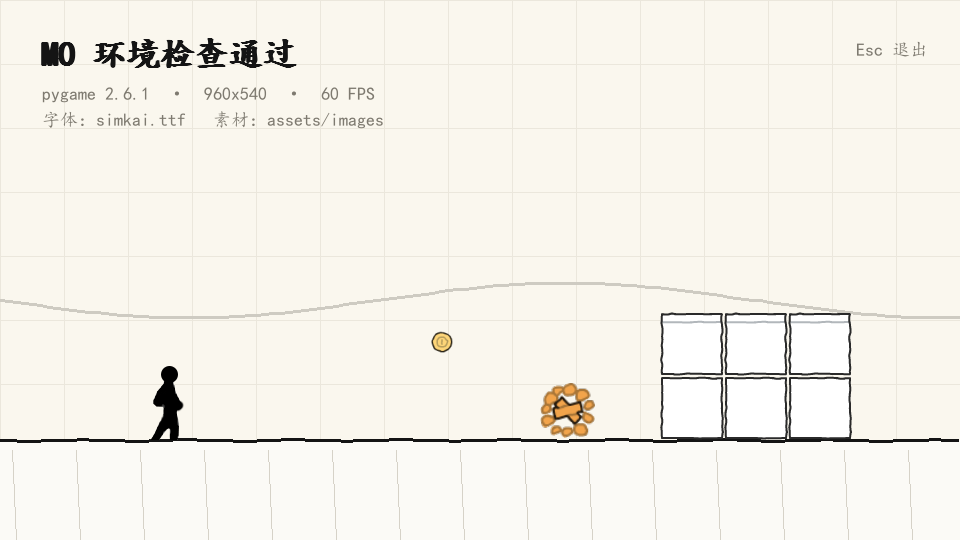
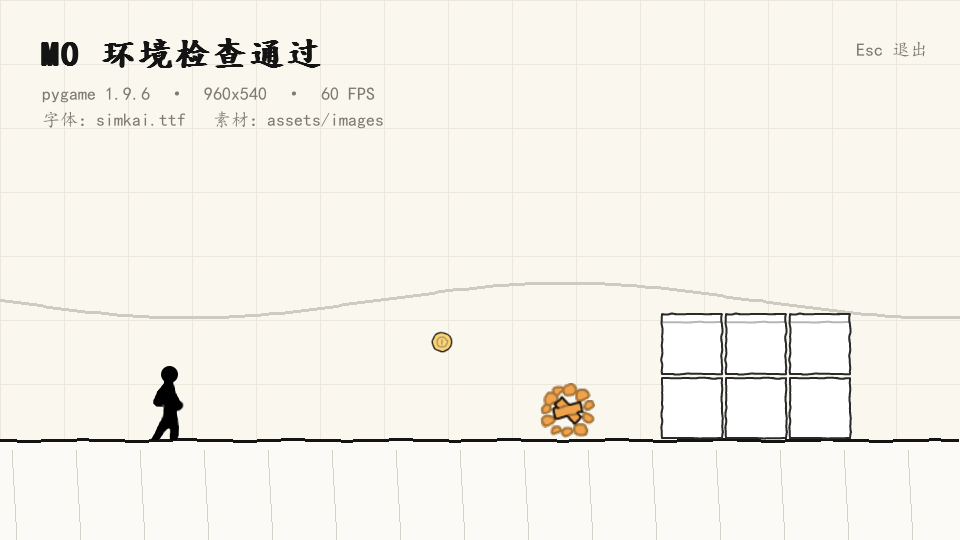
M0: verify on TurtleEditor runtime (Python 3.6.5 / pygame 1.9.6)
- add compat.py: rounded_rect/panel/clip_line/dist/tint/make_display
- force 32-bit display depth (pygame 1.9.6 dummy driver returns 8-bit palette)
- replace gfxdraw.aapolygon stroke (drops bottom edge) with draw.lines closed
- document real target environment and API limits in README
- requirements.txt pinned to pygame>=1.9.6 for the bundled interpreter

Changed region(s): [[0.0625, 0.0593, 0.3438, 0.1778]]

diff --git a/compat.py b/compat.py
@@ -1,0 +1,145 @@
+# -*- coding: utf-8 -*-
+"""pygame 兼容层。
+
+海龟编辑器（Pyblock / TurtleEditor）内置的是 **Python 3.6.5 + pygame 1.9.6**，
+比常见的 pygame 2.x 少若干 API。所有"新 API"统一在这里兜底，业务代码只调用
+本模块，避免在游戏逻辑里到处写版本判断。
+
+实测缺失（2026-11-23，编辑器 Python 3.6.5 / pygame 1.9.6）：
+  - ``pygame.draw.rect(..., border_radius=)``   -> 本模块 rounded_rect()
+  - ``pygame.Rect.clipline()``                  -> 本模块 clip_line()
+  - ``pygame.SCALED``                           -> 不使用，固定窗口尺寸
+  - ``math.dist()``（Python 3.8+）              -> 用 hypot
+  - 8 位调色板显示面（dummy 驱动默认）          -> set_mode 必须显式传 depth=32
+
+可用（无需兜底）：smoothscale、Vector2.rotate、fill(BLEND_MULT)、set_alpha、
+gfxdraw、draw.aalines。
+"""
+
+import math
+
+import pygame
+
+
+def rounded_rect_points(rect, radius, steps=6):
+    """返回圆角矩形的多边形顶点（顺时针，可直接用于 draw.polygon）。"""
+    x, y, w, h = int(rect[0]), int(rect[1]), int(rect[2]), int(rect[3])
+    r = int(min(radius, w // 2, h // 2))
+    if r <= 0:
+        return [(x, y), (x + w, y), (x + w, y + h), (x, y + h)]
+
+    pts = []
+    # 四个圆角：左上 180°→270°，右上 270°→360°，右下 0°→90°，左下 90°→180°
+    corners = (
+        (x + r, y + r, 180.0),
+        (x + w - r, y + r, 270.0),
+        (x + w - r, y + h - r, 0.0),
+        (x + r, y + h - r, 90.0),
+    )
+    for cx, cy, start in corners:
+        for i in range(steps + 1):
+            a = math.radians(start + 90.0 * i / steps)
+            pts.append((int(round(cx + r * math.cos(a))), int(round(cy + r * math.sin(a)))))
+    return pts
+
+
+def rounded_rect(surface, color, rect, radius=8, width=0, smooth=False):
+    """圆角矩形，替代 pygame 2.x 的 ``border_radius`` 参数。
+
+    width=0 为填充，width>0 为描边。smooth=True 时用 2 倍超采样再缩小，
+    得到抗锯齿的圆角（静态面板用，逐帧绘制会掉帧）。
+
+    实现说明：**不能用 gfxdraw.aapolygon 描边**——pygame 1.9.6 的 SDL_gfx
+    在 28 个点的闭合路径上会漏画整条底边（实测，2026-11-23）。改用
+    ``pygame.draw.lines(..., closed=True, width=w)``，绘制完整无缺口。
+    """
+    x, y, w, h = int(rect[0]), int(rect[1]), int(rect[2]), int(rect[3])
+    pts = rounded_rect_points(rect, radius)
+
+    if width and width > 0:
+        pygame.draw.lines(surface, color, True, pts, int(width))
+        return
+
+    if smooth:
+        big = pygame.Surface((w * 2, h * 2), pygame.SRCALPHA)
+        big_pts = rounded_rect_points((0, 0, w * 2, h * 2), radius * 2)
+        pygame.draw.polygon(big, color, big_pts)
+        surface.blit(pygame.transform.smoothscale(big, (w, h)), (x, y))
+        return
+
+    pygame.draw.polygon(surface, color, pts)
+
+
+def panel(surface, rect, radius=14, fill=(255, 255, 255), border=(45, 45, 45), width=3, smooth=True):
+    """游戏内统一的面板样式：先填充再描边。"""
+    rounded_rect(surface, fill, rect, radius, 0, smooth=smooth)
+    if border is not None and width:
+        rounded_rect(surface, border, rect, radius, width)
+
+
+def clip_line(rect, p1, p2):
+    """替代 pygame 2.0 的 ``Rect.clipline``：返回线段在矩形内的部分。
+
+    无交集时返回 None，否则返回 ((x1, y1), (x2, y2))。
+    """
+    x0, y0, w, h = rect[0], rect[1], rect[2], rect[3]
+    x1, y1 = float(p1[0]), float(p1[1])
+    x2, y2 = float(p2[0]), float(p2[1])
+
+    dx, dy = x2 - x1, y2 - y1
+    t0, t1 = 0.0, 1.0
+    edges = ((-dx, x1 - x0), (dx, x0 + w - x1), (-dy, y1 - y0), (dy, y0 + h - y1))
+    for p, q in edges:
+        if p == 0:
+            if q < 0:
+                return None
+        else:
+            t = q / p
+            if p < 0:
+                if t > t1:
+                    return None
+                if t > t0:
+                    t0 = t
+            else:
+                if t < t0:
+                    return None
+                if t < t1:
+                    t1 = t
+    if t0 > t1:
+        return None
+    return (
+        (x1 + dx * t0, y1 + dy * t0),
+        (x1 + dx * t1, y1 + dy * t1),
+    )
+
+
+def dist(a, b):
+    """替代 math.dist（Python 3.8+）。"""
+    return math.hypot(a[0] - b[0], a[1] - b[1])
+
+
+def tint(surface, color):
+    """给白底黑线的贴图染色，黑线与透明度保持不变。
+
+    原理：新建一层铺满 color 且 alpha=255，再用 BLEND_RGBA_MULT 乘上原图。
+    白色 (255,255,255) × color = color；黑线 (0,0,0) × color = 黑；
+    alpha 由原图的 alpha 决定，所以透明背景仍然是透明。
+
+    strength 混合（半透明染色）不在这里做——需要时对返回结果 set_alpha。
+    """
+    out = pygame.Surface(surface.get_size(), pygame.SRCALPHA)
+    out.fill(tuple(color) + (255,))
+    out.blit(surface, (0, 0), special_flags=pygame.BLEND_RGBA_MULT)
+    return out
+
+
+def make_display(size, depth=32):
+    """创建显示面。必须显式指定 depth=32。
+
+    pygame 1.9.6 在 SDL_VIDEODRIVER=dummy（无头自检、CI）下默认返回 8 位
+    调色板表面，会导致文字变实心块、带 alpha 的贴图贴不上去。
+    """
+    try:
+        return pygame.display.set_mode(size, 0, depth)
+    except Exception:
+        return pygame.display.set_mode(size)

diff --git a/main.py b/main.py
@@ -16,6 +16,7 @@ import sys
 
 import pygame
 
+import compat
 import config
 
 
@@ -97,13 +98,13 @@ def draw_static_frame(screen, font_big, font_small, font_name):
     # 金币（烫金）
     coin = pygame.image.load(os.path.join(config.IMAGE_DIR, "collectibles", "tile_coin.png")).convert_alpha()
     coin = pygame.transform.smoothscale(coin, (44, 44))
-    coin.fill(config.COLOR_COIN, special_flags=pygame.BLEND_MULT)
+    coin = compat.tint(coin, config.COLOR_COIN)
     screen.blit(coin, (420, ground_y - 120))
 
     # 篝火（存档点，点亮态 = 橙）
     camp = pygame.image.load(os.path.join(config.IMAGE_DIR, "checkpoints", "campfire.png")).convert_alpha()
     camp = pygame.transform.smoothscale(camp, (72, 72))
-    camp.fill(config.COLOR_CAMP, special_flags=pygame.BLEND_MULT)
+    camp = compat.tint(camp, config.COLOR_CAMP)
     cb = camp.get_bounding_rect()
     screen.blit(camp, (540 - cb.x, ground_y - cb.bottom - 2))
 
@@ -120,10 +121,13 @@ def draw_static_frame(screen, font_big, font_small, font_name):
 def main():
     pygame.init()
     pygame.display.set_caption(config.TITLE)
-    screen = pygame.display.set_mode((config.WIDTH, config.HEIGHT))
+    screen = compat.make_display((config.WIDTH, config.HEIGHT))
     clock = pygame.time.Clock()
 
     report_environment()
+    print(" 显示   : %dx%d / %d 位 / 驱动 %s"
+          % (screen.get_width(), screen.get_height(), screen.get_bitsize(),
+             pygame.display.get_driver()))
 
     font_big, font_name = load_font(34, bold=True)
     font_small, _ = load_font(18)

diff --git a/config.py b/config.py
@@ -24,6 +24,11 @@ FPS = 60
 TILE = 64
 FIXED_DT = 1.0 / 60.0
 
+# 目标运行环境：海龟编辑器内置 Python 3.6.5 + pygame 1.9.6。
+# pygame 1.9.6 在无头（SDL_VIDEODRIVER=dummy）下默认给出 8 位调色板表面，
+# 会让文字变实心块、透明贴图贴不上，所以必须显式要求 32 位。
+DISPLAY_DEPTH = 32
+
 # ---------- 配色（README §2 功能色） ----------
 COLOR_PAPER = (250, 247, 238)      # 纸底 #FAF7EE
 COLOR_PAPER_LINE = (235, 231, 220)  # 极淡方格

diff --git a/README.md b/README.md
@@ -1,12 +1,12 @@
 # 《火柴人跑酷》设计与开发文档
 
 > 2D 横版精准平台跳跃（跑酷 + IWANNA 机关）· Python + pygame · 海龟编辑器
-> 状态：**设计方案与 8 项关键玩法决策已确认；尚未开始编码**
+> 状态：**设计方案已确认；M0 环境验证已通过（Python 3.6.5 / pygame 1.9.6）**
 > 最后更新：2026-11-23
 
 **当前进度**：`✅ 设计` → `✅ M0 环境` → `⬜ M1 骨架` → `⬜ M2 手感` → `⬜ M3 第一关` → `⬜ M4 机关` → `⬜ M5 道具` → `⬜ M6 扩展关卡` → `⬜ M7 UI/存档` → `⬜ M8 打磨`
 
-当前目录已包含 `main.py`、`config.py`、`assets/`（124 个素材文件）、`levels/`、`docs/` 与 `tools/`；M0 已完成本地环境验证，尚未实现任何玩法。M1 开始前仍须在实际使用海龟编辑器的机器上确认 Pygame 可安装。
+当前目录已包含 `main.py`、`config.py`、`compat.py`、`assets/`（124 个素材文件）、`levels/`、`docs/` 与 `tools/`；M0 已在**海龟编辑器真实环境**中验证通过，尚未实现任何玩法。
 
 ---
 
@@ -40,9 +40,11 @@
 | 图形/音频 | `pygame` | 海龟编辑器「库管理 → 游戏」可装 Pygame / Pygame Zero |
 | 框架 | **直接用 pygame**，不用 Pygame Zero | 需要精确控制地面检测、抖动、逐帧碰撞；PGZ 的 Actor 模型反而碍事 |
 | 窗口 | 960×540，固定，目标 60 FPS | 64px 瓦片 → 15×8.4 格视野；角色图片约 96px 高，碰撞盒独立配置 |
-| 本机验证 | 原设计记录为本机已安装 pygame 2.6.1；开始开发时仍需重新运行环境检查 | 不把历史环境状态当作当前保证 |
+| 本机验证 | **已实测**：海龟编辑器 `D:\tools\Pyblock`，内置 **Python 3.6.5 + pygame 1.9.6**，无头与真实窗口（windib）均运行通过 | 2026-11-23 实机核对，不再引用旧记录 |
 
-> ⚠ 海龟编辑器里第一次运行前，需要「库管理 → 游戏 → 安装 Pygame」，否则 `import pygame` 会报错。
+> ⚠ 海龟编辑器的 Pygame 是**内置的 1.9.6**，不需要也不应该去「库管理」再装一遍（装新版会和内置解释器冲突）。直接打开 `main.py` 按运行即可。
+
+> ⚠ **pygame 1.9.6 API 边界**（实测，2026-11-23）：没有 `draw.rect(border_radius=)`、没有 `Rect.clipline()`、没有 `pygame.SCALED`、没有 `math.dist`。圆角面板、线段裁剪、距离计算统一走 `compat.py`，业务代码里禁止直接调用这些新 API。另：无头模式下 `set_mode` 默认返回 **8 位调色板表面**（文字变实心块、透明贴图贴不上），必须显式传 `depth=32`，`compat.make_display()` 已封装。
 
 ---
 
@@ -400,6 +402,7 @@
 火柴人跑酷/
 ├── main.py            入口：初始化、主循环、场景切换
 ├── config.py          所有常量与手感参数（唯一调参入口）
+├── compat.py          pygame 1.9.6 兼容层（圆角矩形/裁剪/染色/创建窗口）
 ├── assets.py          资源加载与缓存（图片预缩放、染色、字体、音效）
 ├── sketch.py          手绘风格绘制工具（抖动矩形/圆/线、粒子）
 ├── player.py          玩家状态机 + 物理
@@ -511,7 +514,8 @@ IDLE ──按方向──→ RUN ──离地──→ JUMP ──vy>0──→
 
 | 风险 | 概率 | 备选 |
 |---|---|---|
-| 海龟编辑器 pygame 版本旧，某些 API 不支持 | 中 | 只用 `pygame 2.0` 基础 API：`Surface.blit`、`draw.rect`、`mixer.Sound`；不用 `SCALED`、`geometry`、`Vector2.rotate` |
+| **（已发生，已处置）** 海龟编辑器 pygame 只有 1.9.6 | 高 | 已实测确认：`border_radius` / `Rect.clipline` / `SCALED` / `math.dist` 全部缺失。统一走 `compat.py`：`rounded_rect()`、`panel()`、`clip_line()`、`dist()`、`tint()`、`make_display()` |
+| **（已发生，已处置）** 无头模式显示面 8 位 | 高 | `set_mode` 显式 `depth=32`；游戏内也要用 `compat.make_display()`，不要直接调 `pygame.display.set_mode` |
 | 中文字体找不到（`simkai.ttf`） | 低 | 依次尝试 `simkai.ttf → msyh.ttc → 自带字体 → 英文 UI`；字体路径集中在 `config.py` |
 | OGG 无法播放 | 低 | 提供 `tools/ogg2wav.py` 一键转换，`assets.py` 优先找 `.ogg` 再找 `.wav` |
 | 60 帧掉帧 | 中 | 只渲染视口内瓦片；图片加载时预缩放并缓存；粒子池上限 80 |
@@ -1034,18 +1038,18 @@ README 是否需要更新：
 - [x] 已补充 AI 接手与交付协议。
 - [x] 用户已确认第 23 章全部 8 项玩法决策（详见第 23 章）。
 - [x] 按《素材清单》整理实际素材目录（`assets/` 共 124 个文件，883 KB）。
-- [x] 创建 `main.py` / `config.py` / `requirements.txt` / `.gitignore`，完成 M0 运行测试。
-- [ ] 在实际使用海龟编辑器的机器上安装 Pygame 并复跑一次（本地已验证 pygame 2.6.1）。
+- [x] 创建 `main.py` / `config.py` / `compat.py` / `requirements.txt` / `.gitignore`，完成 M0 运行测试。
+- [x] **在真正使用海龟编辑器的机器上实测通过**：编辑器路径 `D:\tools\Pyblock`，内置 Python 3.6.5 + pygame 1.9.6，无头（32 位）与真实窗口（windib）均运行成功，24 个 .ogg 音效可加载。
 
 ### 推荐下一步
 
 **M0 已完成，进入 M1：最小游戏骨架。**
 
-M0 实际交付：`assets/` 按《素材清单》整理完毕（124 个文件，883 KB，含 21 张主角帧与 11 张敌人图）；`config.py` 提供路径、配色与手感常量；`main.py` 打开 960×540 窗口、输出 pygame 版本与根目录、启动自检并渲染一帧验证画面；无头与真实显示驱动均运行通过，截图见 `docs/m0_check.png`。
+M0 实际交付：`assets/` 按《素材清单》整理完毕（124 个文件，883 KB，含 21 张主角帧与 11 张敌人图）；`config.py` 提供路径、配色与手感常量；`main.py` 打开 960×540 窗口、输出 pygame 版本与根目录、启动自检并渲染一帧验证画面；`compat.py` 封装 pygame 1.9.6 的 API 缺口；截图见 `docs/m0_check.png`。
 
 M1 只做骨架：拆出 `scenes.py` 的 Menu / Game 空场景与场景切换，保持"不依赖任何外部图片或音频也能跑"，验收通过后再进入 M2 的玩家物理。
 
-> 尚未完成：在真正使用海龟编辑器的机器上安装 Pygame 并复跑。本地验证版本为 pygame 2.6.1 / Python 3.13.14。
+> 目标环境已确认：**Python 3.6.5 + pygame 1.9.6**（海龟编辑器内置）。此后所有代码都必须在这个版本上跑通，不能用 3.7+ 语法（如 `dataclasses`）或 pygame 2.x API。
 
 ---
 
@@ -1111,7 +1115,8 @@ M1 只做骨架：拆出 `scenes.py` 的 Menu / Game 空场景与场景切换，
 | 2026-11-23 | 用户确认全部 8 项玩法决策；关卡分类不限定三关；新增独立《素材清单》交付要求；依据 source.zip 编制素材用途表 |
 | 2026-11-23 | 新增 GitHub 工作流：远程仓库 ink-015/Pyrun；每完成一个可验收的小任务即提交并推送，补充首次连接、日常提交、检查与 AI 交接规则 |
 | 2026-11-23 | 根据用户补充的 `火柴人.zip` 修正主角/敌人素材；统一地图出生点 `P`、敌人踩踏规则、死亡计时、素材目录、地砖用途、功能色和 UI 面板规范 |
-| 2026-11-23 | **M0 完成**：素材整理入 `assets/`；新增 `config.py`、`main.py`、`requirements.txt`、`.gitignore`；实测 `tile_*` 无法平铺为连续地面并记入 §3.1；本地 pygame 2.6.1 运行通过，截图 `docs/m0_check.png` |
+| 2026-11-23 | **M0 完成**：素材整理入 `assets/`；新增 `config.py`、`main.py`、`requirements.txt`、`.gitignore`；实测 `tile_*` 无法平铺为连续地面并记入 §3.1；截图 `docs/m0_check.png` |
+| 2026-11-23 | **海龟编辑器实机验证**：确认内置 Python 3.6.5 + pygame 1.9.6（`D:\tools\Pyblock`）；发现无头模式 8 位表面与 `border_radius`/`clipline`/`SCALED`/`math.dist` 缺失，新增 `compat.py` 统一兜底；重跑自检与截图通过，24 个 .ogg 可加载 |
 
 
 ---
